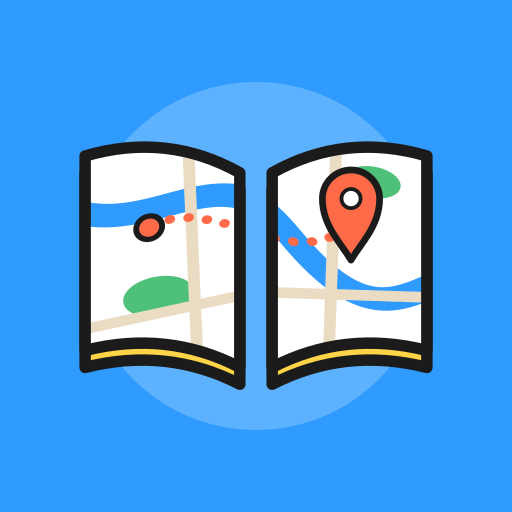
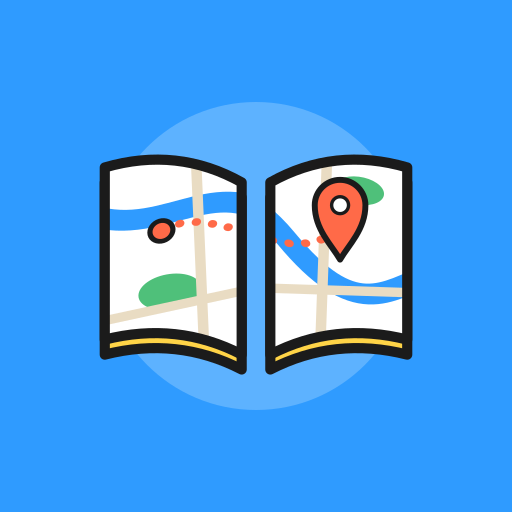
v0.14.9：Android のホーム画面でアイコンの本がはみ出ないように（Android 用の絵を小さく）

Changed region(s): [[0.1562, 0.1562, 0.8438, 0.8438]]

diff --git a/js/screens.js b/js/screens.js
@@ -1,17 +1,17 @@
 // 画面：ちかく（旧レーダー）・めぐり帳（旧図鑑）・ラリー（旧お題）・設定・最初の案内
-import { APP_VER, RANGE_M, PG, pagesForVol, frameOf, PREFS } from './config.js?v=0.14.8';
-import { S, save, exportJSON, parseImport, replace, reset } from './state.js?v=0.14.8';
-import { STORES, BYID, FEAT, RALLIES, isFeat, rarityOf, rarityText, stampSVG, unhideAll, rebuild, DATA_DATE, pickOpen, bookTitle } from './data.js?v=0.14.8';
-import * as G from './game.js?v=0.14.8';
-import * as MAP from './map.js?v=0.14.8';
-import { POS, hasPos } from './position.js?v=0.14.8';
-import { sfx, haptic } from './audio.js?v=0.14.8';
-import { profileImage, shareBlob } from './share.js?v=0.14.8';
-import { toast, openModal, closeModal, confirmBox, openSheet, openCard, switchView, setSub, refreshHud, applyMapStates, updateNear, locate, setTrialUI, warp, makeAvatar, nameModal, cleanHandle, joinModal, NEAR, currentSub, homeTip, exportFile } from './ui.js?v=0.14.8';
-import * as JU from './journey_ui.js?v=0.14.8';
-import { renderReading } from './reading_ui.js?v=0.14.8';
-import * as E from './events.js?v=0.14.8';
-import { $, $$, esc, dist, bearing, arrowOf, fmtDist, fmtDate, todayISO, prefOf, stars, icon, weekKey, isStandalone, mobileOS } from './util.js?v=0.14.8';
+import { APP_VER, RANGE_M, PG, pagesForVol, frameOf, PREFS } from './config.js?v=0.14.9';
+import { S, save, exportJSON, parseImport, replace, reset } from './state.js?v=0.14.9';
+import { STORES, BYID, FEAT, RALLIES, isFeat, rarityOf, rarityText, stampSVG, unhideAll, rebuild, DATA_DATE, pickOpen, bookTitle } from './data.js?v=0.14.9';
+import * as G from './game.js?v=0.14.9';
+import * as MAP from './map.js?v=0.14.9';
+import { POS, hasPos } from './position.js?v=0.14.9';
+import { sfx, haptic } from './audio.js?v=0.14.9';
+import { profileImage, shareBlob } from './share.js?v=0.14.9';
+import { toast, openModal, closeModal, confirmBox, openSheet, openCard, switchView, setSub, refreshHud, applyMapStates, updateNear, locate, setTrialUI, warp, makeAvatar, nameModal, cleanHandle, joinModal, NEAR, currentSub, homeTip, exportFile } from './ui.js?v=0.14.9';
+import * as JU from './journey_ui.js?v=0.14.9';
+import { renderReading } from './reading_ui.js?v=0.14.9';
+import * as E from './events.js?v=0.14.9';
+import { $, $$, esc, dist, bearing, arrowOf, fmtDist, fmtDate, todayISO, prefOf, stars, icon, weekKey, isStandalone, mobileOS } from './util.js?v=0.14.9';
 
 const empty = (ic, text) => `<div class="empty">${icon(ic)}<div>${text}</div></div>`;
 

diff --git a/js/ui.js b/js/ui.js
@@ -1,15 +1,15 @@
 // 画面の部品：見出し帯・タブ・店のシート・モーダル・スタンプの演出・カード・さがす・追加
-import { RANGE_M, SENSE_M, TERRITORY_M, PG, WALK, pagesForVol } from './config.js?v=0.14.8';
-import { S, save, exportJSON } from './state.js?v=0.14.8';
-import { STORES, BYID, FEAT, isFeat, isLib, placeWord, rarityOf, rarityText, stampSVG, stampInk, search, addCustom, hideStore, renameStore, lookupIsbn, DATA_DATE, pickOpen, bookTitle } from './data.js?v=0.14.8';
-import * as G from './game.js?v=0.14.8';
-import * as MAP from './map.js?v=0.14.8';
-import { POS, setPos, startWatch, setTrial, setFollow, hasPos, jumped } from './position.js?v=0.14.8';
-import { sfx, haptic, unlock } from './audio.js?v=0.14.8';
-import { stampImage, cardImage, shareBlob } from './share.js?v=0.14.8';
-import * as E from './events.js?v=0.14.8';
-import * as J from './journey.js?v=0.14.8';
-import { $, $$, esc, dist, bearing, arrowOf, fmtDist, fmtDate, todayISO, prefOf, stars, icon, on, emit, weekKey, gmapDir, gmapPlace, mobileOS } from './util.js?v=0.14.8';
+import { RANGE_M, SENSE_M, TERRITORY_M, PG, WALK, pagesForVol } from './config.js?v=0.14.9';
+import { S, save, exportJSON } from './state.js?v=0.14.9';
+import { STORES, BYID, FEAT, isFeat, isLib, placeWord, rarityOf, rarityText, stampSVG, stampInk, search, addCustom, hideStore, renameStore, lookupIsbn, DATA_DATE, pickOpen, bookTitle } from './data.js?v=0.14.9';
+import * as G from './game.js?v=0.14.9';
+import * as MAP from './map.js?v=0.14.9';
+import { POS, setPos, startWatch, setTrial, setFollow, hasPos, jumped } from './position.js?v=0.14.9';
+import { sfx, haptic, unlock } from './audio.js?v=0.14.9';
+import { stampImage, cardImage, shareBlob } from './share.js?v=0.14.9';
+import * as E from './events.js?v=0.14.9';
+import * as J from './journey.js?v=0.14.9';
+import { $, $$, esc, dist, bearing, arrowOf, fmtDist, fmtDate, todayISO, prefOf, stars, icon, on, emit, weekKey, gmapDir, gmapPlace, mobileOS } from './util.js?v=0.14.9';
 
 export let currentView = 'map';
 export let currentSub = 'stamps';

diff --git a/js/journey_ui.js b/js/journey_ui.js
@@ -1,14 +1,14 @@
 // 旅の記録の画面：行きたい店のお知らせ・この辺りの行きたい店・今日の物語・月のふり返り・投稿の記録・Googleマップの★の読み込み
-import { S, save } from './state.js?v=0.14.8';
-import { STORES, BYID, addCustom } from './data.js?v=0.14.8';
-import * as J from './journey.js?v=0.14.8';
-import * as G from './game.js?v=0.14.8';
-import * as MAP from './map.js?v=0.14.8';
-import { POS, hasPos } from './position.js?v=0.14.8';
-import { sfx, haptic } from './audio.js?v=0.14.8';
-import { storyImage, shareBlob } from './share.js?v=0.14.8';
-import { toast, openModal, closeModal, openSheet, applyMapStates, updateNear, refreshHud } from './ui.js?v=0.14.8';
-import { $, $$, esc, fmtDist, todayISO, icon, arrowOf, bearing, dist, gmapDir } from './util.js?v=0.14.8';
+import { S, save } from './state.js?v=0.14.9';
+import { STORES, BYID, addCustom } from './data.js?v=0.14.9';
+import * as J from './journey.js?v=0.14.9';
+import * as G from './game.js?v=0.14.9';
+import * as MAP from './map.js?v=0.14.9';
+import { POS, hasPos } from './position.js?v=0.14.9';
+import { sfx, haptic } from './audio.js?v=0.14.9';
+import { storyImage, shareBlob } from './share.js?v=0.14.9';
+import { toast, openModal, closeModal, openSheet, applyMapStates, updateNear, refreshHud } from './ui.js?v=0.14.9';
+import { $, $$, esc, fmtDist, todayISO, icon, arrowOf, bearing, dist, gmapDir } from './util.js?v=0.14.9';
 
 const dirLink = (st, label = '道順') => `<a class="btn" href="${gmapDir(st)}" target="_blank" rel="noopener" data-stop>${label}</a>`;
 const stopLinks = (root) => $$('[data-stop]', root).forEach((a) => a.addEventListener('click', (e) => e.stopPropagation()));

diff --git a/js/main.js b/js/main.js
@@ -1,17 +1,17 @@
 // 起動：記録を読み、データを取り、地図を出し、部品をつなぐ
-import { APP_VER } from './config.js?v=0.14.8';
-import { S, load, save } from './state.js?v=0.14.8';
-import { loadAll, STORES } from './data.js?v=0.14.8';
-import * as MAP from './map.js?v=0.14.8';
-import { POS, setPos, setFollow, jumped } from './position.js?v=0.14.8';
-import * as AUDIO from './audio.js?v=0.14.8';
-import * as UI from './ui.js?v=0.14.8';
-import * as J from './journey.js?v=0.14.8';
-import * as JU from './journey_ui.js?v=0.14.8';
-import * as RU from './reading_ui.js?v=0.14.8';
-import * as E from './events.js?v=0.14.8';
-import { renderRadar, renderZukan, renderMissions, renderSettings, applyTheme, showOnboarding } from './screens.js?v=0.14.8';
-import { $, $$, on, emit, isStandalone, mobileOS } from './util.js?v=0.14.8';
+import { APP_VER } from './config.js?v=0.14.9';
+import { S, load, save } from './state.js?v=0.14.9';
+import { loadAll, STORES } from './data.js?v=0.14.9';
+import * as MAP from './map.js?v=0.14.9';
+import { POS, setPos, setFollow, jumped } from './position.js?v=0.14.9';
+import * as AUDIO from './audio.js?v=0.14.9';
+import * as UI from './ui.js?v=0.14.9';
+import * as J from './journey.js?v=0.14.9';
+import * as JU from './journey_ui.js?v=0.14.9';
+import * as RU from './reading_ui.js?v=0.14.9';
+import * as E from './events.js?v=0.14.9';
+import { renderRadar, renderZukan, renderMissions, renderSettings, applyTheme, showOnboarding } from './screens.js?v=0.14.9';
+import { $, $$, on, emit, isStandalone, mobileOS } from './util.js?v=0.14.9';
 
 async function boot() {
   load(); applyThemeEarly();

diff --git a/sw.js b/sw.js
@@ -2,10 +2,10 @@
 // ・版のついた部品（?v=）は覚えたものを先に使う（版が変わればURLも変わるので、古い部品は混ざらない）
 // ・index.html・データ・版のないものはネット優先（必ずサーバーに確かめる）。切れていたら前回のもの
 // ・地図タイル・本の情報（外部）は触らない
-const V = '0.14.8';
+const V = '0.14.9';
 const VER = 'honya-map-' + V;
 const MODS = ['main', 'config', 'util', 'state', 'audio', 'position', 'data', 'map', 'game', 'ui', 'screens', 'share', 'journey', 'journey_ui', 'reading_ui', 'events'];
-const SHELL = ['./', './index.html', `./css/app.css?v=${V}`, ...MODS.map((m) => `./js/${m}.js?v=${V}`), './manifest.webmanifest', './icon-192.png?v=2', './icon-512.png?v=2', './icon-maskable-512.png?v=2', './apple-touch-icon.png?v=2']; // アイコンは v0.14.8 で「本の中の地図」に（?v=2）
+const SHELL = ['./', './index.html', `./css/app.css?v=${V}`, ...MODS.map((m) => `./js/${m}.js?v=${V}`), './manifest.webmanifest', './icon-192.png?v=3', './icon-512.png?v=3', './icon-maskable-512.png?v=3', './apple-touch-icon.png?v=3']; // アイコンは v0.14.8 で「本の中の地図」に。v0.14.9 で Android 用の絵を小さく（?v=3）
 
 self.addEventListener('install', (e) => { e.waitUntil(caches.open(VER).then((c) => c.addAll(SHELL).catch(() => {}))); });
 self.addEventListener('activate', (e) => { e.waitUntil(caches.keys().then((keys) => Promise.all(keys.filter((k) => k !== VER).map((k) => caches.delete(k)))).then(() => self.clients.claim())); });

diff --git a/js/reading_ui.js b/js/reading_ui.js
@@ -1,11 +1,11 @@
 // 読書・いま読んでいる本の画面（v0.14。v0.14.7 で「移動読書」から「読書」に：止まって読む人もいるので）
 // 地図の大きなボタン「今から移動読書」で時間を計りはじめ（本も読みかたも選ばない）、読み終えたら「おわる」で止める（v0.14.4）。読んだ時間だけページが増える
 // アプリは閉じてよい（時刻で計る）。読んでいる本は、移動読書中のボタンを押したときに、えらびたい人だけえらぶ
-import { S, save } from './state.js?v=0.14.8';
-import * as J from './journey.js?v=0.14.8';
-import { POS } from './position.js?v=0.14.8';
-import { toast, openModal, closeModal, confirmBox, scanIsbn, manualIsbn, stopScan } from './ui.js?v=0.14.8';
-import { $, $$, esc, fmtDate, icon } from './util.js?v=0.14.8';
+import { S, save } from './state.js?v=0.14.9';
+import * as J from './journey.js?v=0.14.9';
+import { POS } from './position.js?v=0.14.9';
+import { toast, openModal, closeModal, confirmBox, scanIsbn, manualIsbn, stopScan } from './ui.js?v=0.14.9';
+import { $, $$, esc, fmtDate, icon } from './util.js?v=0.14.9';
 
 const cover = (b) => `<div class="rcover">${b.cover ? `<img src="${esc(b.cover)}" alt="" referrerpolicy="no-referrer" loading="lazy">` : icon('book')}</div>`;
 const hm = (t) => { const d = new Date(t); return `${d.getHours()}:${String(d.getMinutes()).padStart(2, '0')}`; };

diff --git a/js/journey.js b/js/journey.js
@@ -1,10 +1,10 @@
 // 旅の記録：歩いた距離（ページ）・その日の物語・月のふり返り・行きたい店のお知らせ・投稿の記録・Googleマップの★の読み込み・店と店のあいだ・移動読書・いま読んでいる本
 // 位置は、アプリを開いて現在地を追っているあいだだけ使う（ブラウザの決まりで、閉じているあいだは測れない）。閉じていたあいだの道のりは、次の店でスタンプを押したときに、前の店からのまっすぐの距離で足す（v0.14）
-import { WALK, RANGE_M, SEG, READ } from './config.js?v=0.14.8';
-import { S, save } from './state.js?v=0.14.8';
-import { STORES, BYID, rarityOf } from './data.js?v=0.14.8';
-import * as G from './game.js?v=0.14.8';
-import { dist, todayISO, prefOf, hash32, fmtDist, monthKey, emit } from './util.js?v=0.14.8';
+import { WALK, RANGE_M, SEG, READ } from './config.js?v=0.14.9';
+import { S, save } from './state.js?v=0.14.9';
+import { STORES, BYID, rarityOf } from './data.js?v=0.14.9';
+import * as G from './game.js?v=0.14.9';
+import { dist, todayISO, prefOf, hash32, fmtDist, monthKey, emit } from './util.js?v=0.14.9';
 
 function dayRec(d = todayISO()) { S.days = S.days || {}; const r = (S.days[d] = S.days[d] || { m: 0, v: 0 }); r.pass = r.pass || {}; r.alert = r.alert || {}; return r; }
 export const pagesOf = (m) => Math.floor((m || 0) / WALK.pageM);

diff --git a/index.html b/index.html
@@ -12,12 +12,12 @@
 <meta name="apple-mobile-web-app-status-bar-style" content="default">
 <meta name="apple-mobile-web-app-title" content="本めぐり">
 <link rel="manifest" href="manifest.webmanifest">
-<link rel="apple-touch-icon" href="apple-touch-icon.png?v=2">
-<link rel="icon" href="icon-192.png?v=2">
+<link rel="apple-touch-icon" href="apple-touch-icon.png?v=3">
+<link rel="icon" href="icon-192.png?v=3">
 <link rel="preconnect" href="https://fonts.googleapis.com"><link rel="preconnect" href="https://fonts.gstatic.com" crossorigin>
 <link href="https://fonts.googleapis.com/css2?family=Mochiy+Pop+P+One&family=Zen+Maru+Gothic:wght@500;700;900&display=swap" rel="stylesheet">
 <link href="https://cdn.jsdelivr.net/npm/maplibre-gl@4.7.1/dist/maplibre-gl.css" rel="stylesheet">
-<link rel="stylesheet" href="css/app.css?v=0.14.8">
+<link rel="stylesheet" href="css/app.css?v=0.14.9">
 </head>
 <body>
 <svg width="0" height="0" style="position:absolute" aria-hidden="true">
@@ -141,6 +141,6 @@
 <div id="toasts" aria-live="polite"></div>
 
 <script src="https://cdn.jsdelivr.net/npm/maplibre-gl@4.7.1/dist/maplibre-gl.js"></script>
-<script type="module" src="js/main.js?v=0.14.8"></script>
+<script type="module" src="js/main.js?v=0.14.9"></script>
 </body>
 </html>

diff --git a/js/events.js b/js/events.js
@@ -1,10 +1,10 @@
 // イベント（v0.10）：管理画面で作った設定をサーバーから読み、期間・対象の店・限定の枠・お題・称号を決める
 // サーバーに送るのは「匿名の番号・店番号・日時・射程内か・お試し歩きか・イベント」だけ。位置の座標・名前・メモは送らない
 // サーバーに届かないときは、前回読んだ設定で動く。スタンプはいつでも押せる
-import { APP_VER, EVENTS_API } from './config.js?v=0.14.8';
-import { S, save } from './state.js?v=0.14.8';
-import { isLib } from './data.js?v=0.14.8';
-import { prefOf, todayISO, emit } from './util.js?v=0.14.8';
+import { APP_VER, EVENTS_API } from './config.js?v=0.14.9';
+import { S, save } from './state.js?v=0.14.9';
+import { isLib } from './data.js?v=0.14.9';
+import { prefOf, todayISO, emit } from './util.js?v=0.14.9';
 
 export const EV = { list: [], permitted: new Set(), ok: false, at: 0 };
 const CACHE_KEY = 'meguri_events_v1';

diff --git a/js/share.js b/js/share.js
@@ -1,9 +1,9 @@
 // シェア用の画像（スタンプ・常連度・カード・プレイヤーカード）
-import { S } from './state.js?v=0.14.8';
-import { stampSVG, stampInk, rarityOf, rarityText } from './data.js?v=0.14.8';
-import { snapshot } from './map.js?v=0.14.8';
-import { regularInfo } from './game.js?v=0.14.8';
-import { stars, prefOf, fmtDate, todayISO } from './util.js?v=0.14.8';
+import { S } from './state.js?v=0.14.9';
+import { stampSVG, stampInk, rarityOf, rarityText } from './data.js?v=0.14.9';
+import { snapshot } from './map.js?v=0.14.9';
+import { regularInfo } from './game.js?v=0.14.9';
+import { stars, prefOf, fmtDate, todayISO } from './util.js?v=0.14.9';
 
 const PAPER = '#FFF8EA', INK = '#1B1B1B', INK2 = '#5A554D', SHU = '#FF6A48', LINE = '#1B1B1B';
 const DISP = '"Mochiy Pop P One","Zen Maru Gothic","Hiragino Sans",sans-serif', BODY = '"Zen Maru Gothic","Hiragino Sans",sans-serif';

diff --git a/js/game.js b/js/game.js
@@ -1,8 +1,8 @@
 // 遊びの仕組み：物語のページと巻・称号・実績・ミッション・ラリー・カード
-import { PG, TITLES, ACHIEVEMENTS, REGULAR, WALK, volOf } from './config.js?v=0.14.8';
-import { S, save } from './state.js?v=0.14.8';
-import { BYID, RALLIES, FEAT, isFeat, rarityOf } from './data.js?v=0.14.8';
-import { prefOf, todayISO, weekKey, weekStartISO, monthKey, emit } from './util.js?v=0.14.8';
+import { PG, TITLES, ACHIEVEMENTS, REGULAR, WALK, volOf } from './config.js?v=0.14.9';
+import { S, save } from './state.js?v=0.14.9';
+import { BYID, RALLIES, FEAT, isFeat, rarityOf } from './data.js?v=0.14.9';
+import { prefOf, todayISO, weekKey, weekStartISO, monthKey, emit } from './util.js?v=0.14.9';
 
 export const visitsOf = (id) => S.visits.filter((v) => v.s === id);
 export const cardsOf = (id) => S.cards.filter((c) => c.s === id);

diff --git a/js/audio.js b/js/audio.js
@@ -1,7 +1,7 @@
 // 音（部品ファイルなしで、その場で合成）。振動は使わない（2026-10-17 ぶっくまさんの指示）
 // 材料：マリンバ風の打音（mallet）・鐘（bell）・弦をはじく音（pluck）・低い打音（thump）・小さな「ぽ」（pop）。
 // すべて残響（convolver）とコンプレッサーを通すので、安っぽい電子音にならない
-import { S } from './state.js?v=0.14.8';
+import { S } from './state.js?v=0.14.9';
 
 let ctx = null, bus = null;
 function ac() { if (!ctx) { try { ctx = new (window.AudioContext || window.webkitAudioContext)(); } catch (e) { ctx = null; } } if (ctx && ctx.state === 'suspended') ctx.resume().catch(() => {}); return ctx; }
